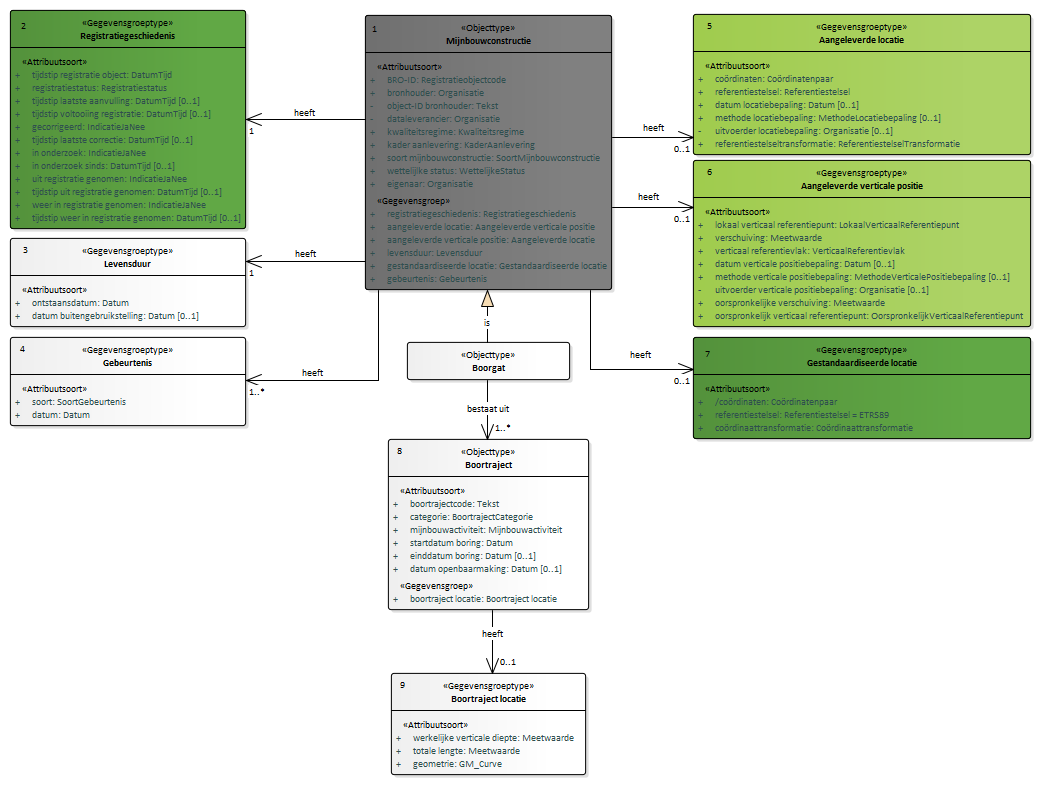
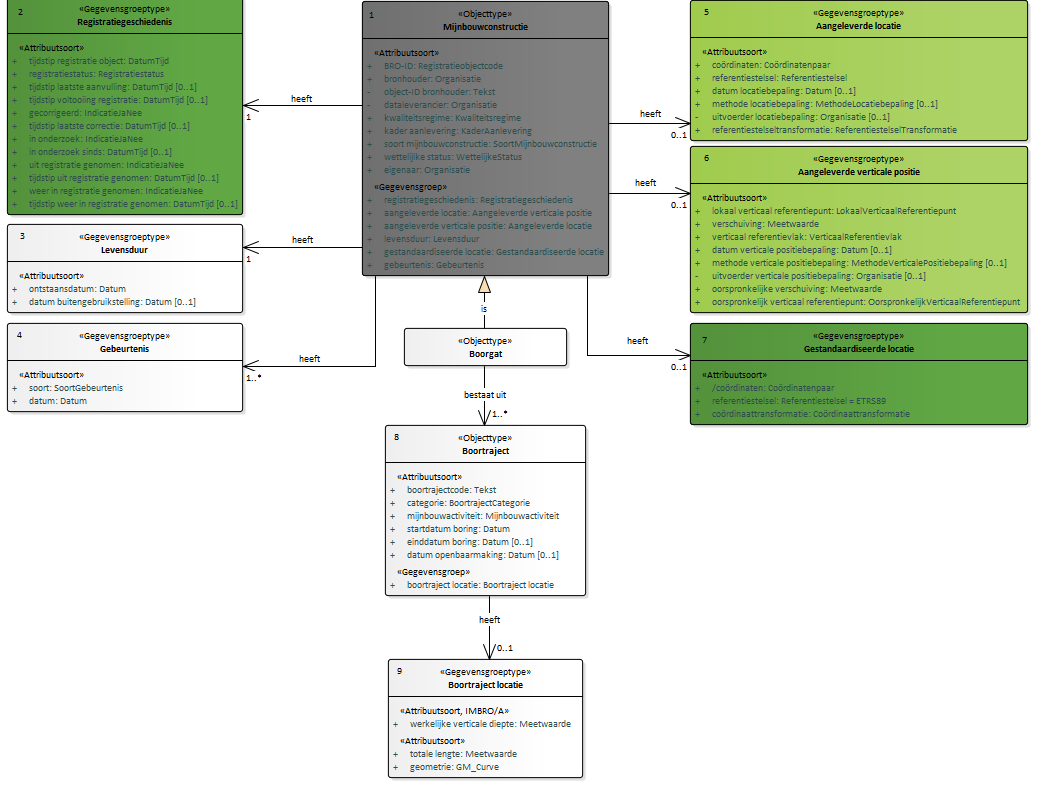
Conceptualmodel-MijnbouwconstructiesEPC-conceptueel-0.1versie27juli2020-1-20200727-20201204-084138

Changed region(s): [[0.0, 0.0, 1.0, 1.0], [0.2767, 0.428, 0.3074, 0.4892]]

diff --git a/data/EPC-cat.msword.html b/data/EPC-cat.msword.html
@@ -15,7 +15,7 @@
    <body>
       <p>Conceptual model/Mijnbouwconstructies (EPC) - conceptueel/20200727</p>
       <p>Imvertor: 1.61.3</p>
-      <p>Model release: Conceptualmodel-MijnbouwconstructiesEPC-conceptueel-0.1versie27juli2020-1-20200727-20201202-084744</p>
+      <p>Model release: Conceptualmodel-MijnbouwconstructiesEPC-conceptueel-0.1versie27juli2020-1-20200727-20201204-084138</p>
       <hr>
       <section>
          <h1>Artikel 1 Definitie van registratieobject, entiteiten en attributen</h1>
@@ -61,7 +61,7 @@
          <section>
             <h2>Het domeinmodel</h2>
             <section id="">
-               <div class="imageinfo overview"><img src="Images/EAID_017CB205_53B6_4659_8664_F773CFA9FA2C.png" usemap="#imagemap-EAID_017CB205_53B6_4659_8664_F773CFA9FA2C" alt="Diagram "><map name="imagemap-EAID_017CB205_53B6_4659_8664_F773CFA9FA2C"><area shape="rect" alt="Boorgat" coords="407,342,570,380" href="#graph_EAID_78FEC25A_E260_4420_9D1D_66F309EA2C60"><area shape="rect" alt="Gebeurtenis" coords="10,337,246,426" href="#graph_EAID_9C6EA470_E1F4_479d_B21A_A6E8EA9D3F88"><area shape="rect" alt="Levensduur" coords="10,238,246,327" href="#graph_EAID_C36A9725_3F81_4f6c_BDE2_5CED730905A2"><area shape="rect" alt="Boortraject locatie" coords="391,673,586,775" href="#graph_EAID_410F626E_1E87_47b5_AB5A_014C2D41B9B7"><area shape="rect" alt="Gestandaardiseerde locatie" coords="693,337,1031,439" href="#graph_EAID_95E39295_3080_4135_862A_30756039B864"><area shape="rect" alt="Boortraject" coords="388,439,589,610" href="#graph_EAID_4E52826A_2252_4994_8AD0_986AD45E18C9"><area shape="rect" alt="Mijnbouwconstructie" coords="365,15,612,290" href="#graph_EAID_69DE8D60_7E06_4b57_94CD_8338348EDAE5"><area shape="rect" alt="Registratiegeschiedenis" coords="10,10,246,229" href="#graph_EAID_8550146B_496A_40ca_BE86_AFD377E5A6D8"><area shape="rect" alt="Aangeleverde verticale positie" coords="693,160,1031,327" href="#graph_EAID_A249D799_B098_49cd_98AA_DCAE0EB07DE7"><area shape="rect" alt="Aangeleverde locatie" coords="693,14,1031,155" href="#graph_EAID_EDA11EEA_8FED_44be_AC04_18B58CB46F11"></map><p><b>Mijnbouwconstructies (EPC) -  overzicht</b></p>
+               <div class="imageinfo overview"><img src="Images/EAID_017CB205_53B6_4659_8664_F773CFA9FA2C.png" usemap="#imagemap-EAID_017CB205_53B6_4659_8664_F773CFA9FA2C" alt="Diagram "><map name="imagemap-EAID_017CB205_53B6_4659_8664_F773CFA9FA2C"><area shape="rect" alt="Boorgat" coords="404,328,567,366" href="#graph_EAID_78FEC25A_E260_4420_9D1D_66F309EA2C60"><area shape="rect" alt="Gebeurtenis" coords="7,323,243,412" href="#graph_EAID_9C6EA470_E1F4_479d_B21A_A6E8EA9D3F88"><area shape="rect" alt="Levensduur" coords="7,224,243,313" href="#graph_EAID_C36A9725_3F81_4f6c_BDE2_5CED730905A2"><area shape="rect" alt="Boortraject locatie" coords="388,659,583,778" href="#graph_EAID_410F626E_1E87_47b5_AB5A_014C2D41B9B7"><area shape="rect" alt="Gestandaardiseerde locatie" coords="690,323,1028,425" href="#graph_EAID_95E39295_3080_4135_862A_30756039B864"><area shape="rect" alt="Boortraject" coords="385,425,586,596" href="#graph_EAID_4E52826A_2252_4994_8AD0_986AD45E18C9"><area shape="rect" alt="Mijnbouwconstructie" coords="362,1,609,276" href="#graph_EAID_69DE8D60_7E06_4b57_94CD_8338348EDAE5"><area shape="rect" alt="Registratiegeschiedenis" coords="7,-4,243,215" href="#graph_EAID_8550146B_496A_40ca_BE86_AFD377E5A6D8"><area shape="rect" alt="Aangeleverde verticale positie" coords="690,146,1028,313" href="#graph_EAID_A249D799_B098_49cd_98AA_DCAE0EB07DE7"><area shape="rect" alt="Aangeleverde locatie" coords="690,0,1028,141" href="#graph_EAID_EDA11EEA_8FED_44be_AC04_18B58CB46F11"></map><p><b>Mijnbouwconstructies (EPC) -  overzicht</b></p>
                </div>
             </section>
          </section>
@@ -2594,7 +2594,7 @@
                      </section>
                </section><a class="anchor" id="graph_EAID_410F626E_1E87_47b5_AB5A_014C2D41B9B7"></a><a class="anchor" id="global_class_Model_Boortrajectlocatie"></a><section id="global_class_Model_Boortrajectlocatie">
                   <h3>   Boortraject locatie</h3>
-                  <div class="imageinfo "><img src="Images/EAID_DE0FAE45_A1B5_478b_B7CF_2434A1D14A53.png" usemap="#imagemap-EAID_DE0FAE45_A1B5_478b_B7CF_2434A1D14A53" alt="Diagram "><map name="imagemap-EAID_DE0FAE45_A1B5_478b_B7CF_2434A1D14A53"><area shape="rect" alt="Boortraject locatie" coords="-47,-53,148,49" href="#graph_EAID_410F626E_1E87_47b5_AB5A_014C2D41B9B7"></map><p><b></b></p>
+                  <div class="imageinfo "><img src="Images/EAID_DE0FAE45_A1B5_478b_B7CF_2434A1D14A53.png" usemap="#imagemap-EAID_DE0FAE45_A1B5_478b_B7CF_2434A1D14A53" alt="Diagram "><map name="imagemap-EAID_DE0FAE45_A1B5_478b_B7CF_2434A1D14A53"><area shape="rect" alt="Boortraject locatie" coords="-47,-53,148,66" href="#graph_EAID_410F626E_1E87_47b5_AB5A_014C2D41B9B7"></map><p><b></b></p>
                   </div>
                   <table style="width: 100%;">
                      <colgroup style="width: 30%;"></colgroup>
@@ -2678,6 +2678,13 @@
                               <td>
                                  
                                  <p>De waarde van het attribuut <em>werkelijke verticale diepte</em> mag niet groter zijn dan de waarde van het attribuut <em>totale lengte</em>.</p>
+                                 </td>
+                           </tr>
+                           <tr>
+                              <th>Regels IMBRO/A</th>
+                              <td>
+                                 
+                                 <p>xcvbnm</p>
                                  </td>
                            </tr>
                            <tr>
@@ -4001,7 +4008,7 @@
                      <td>
                         
                         <p>De geometrie van een boortraject is gewijzigd.<br clear="none">
-                           \</p>
+                           </p>
                         </td>
                   </tr>
                </tbody>
